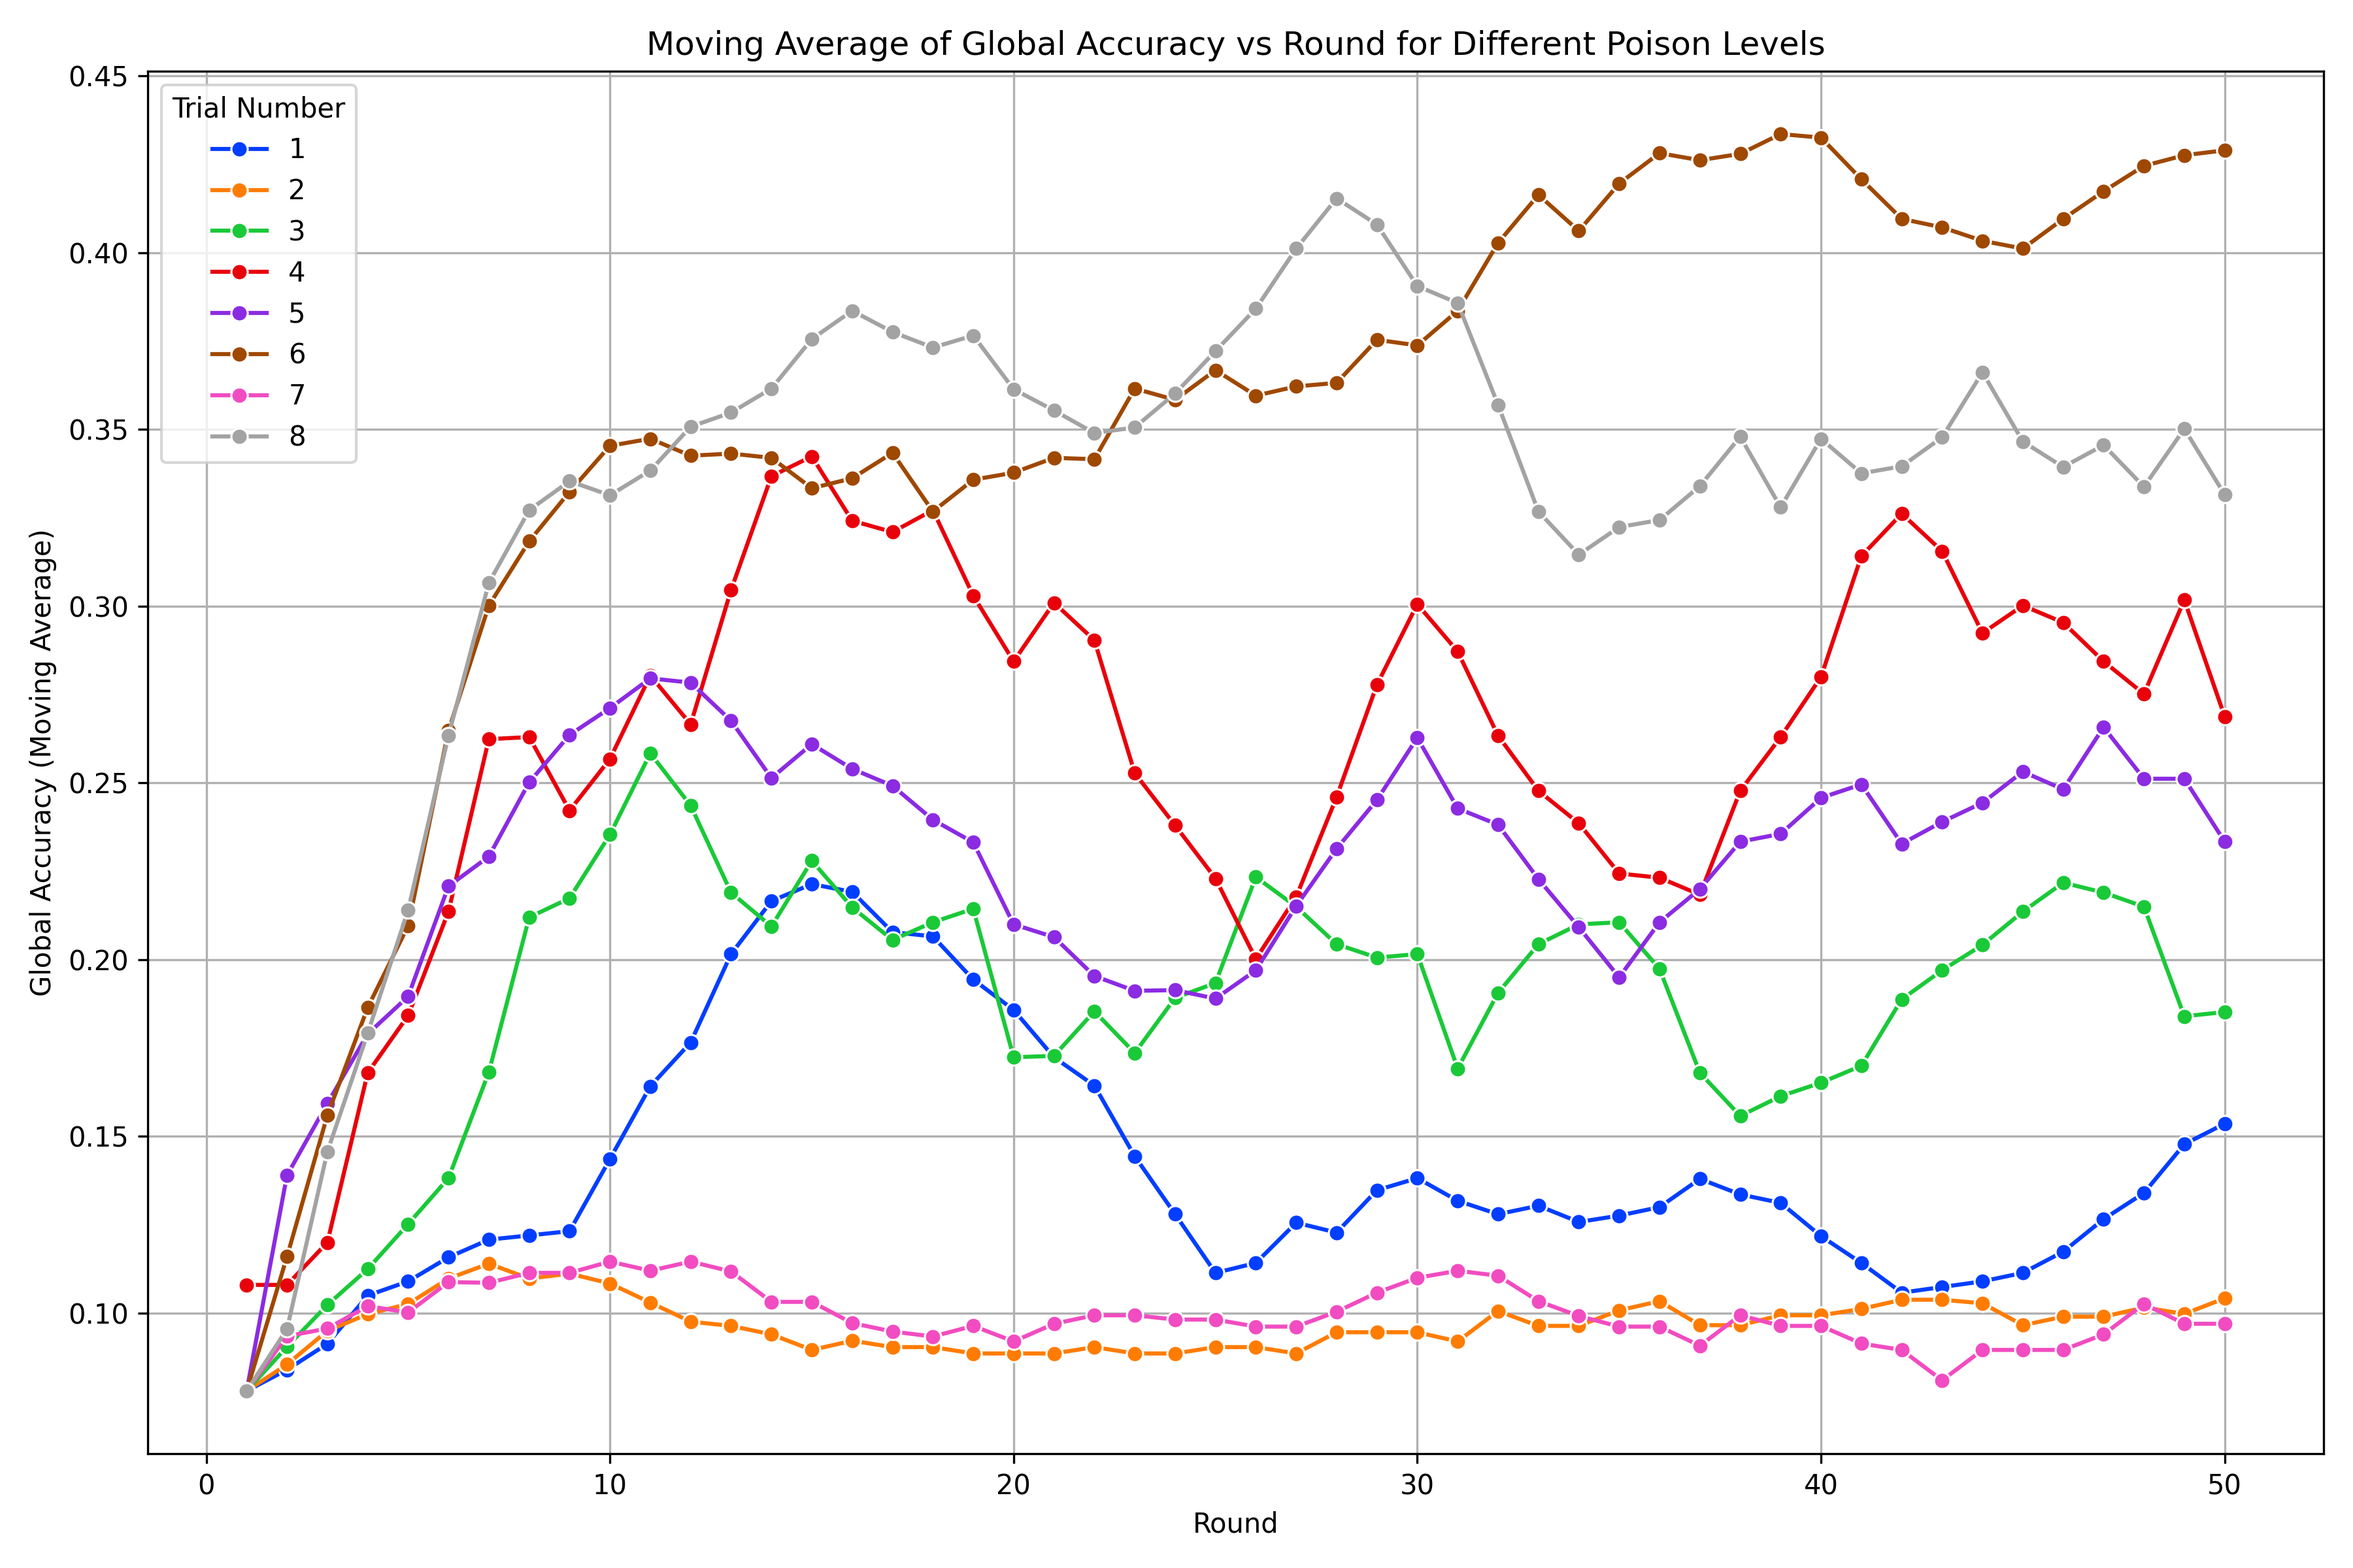
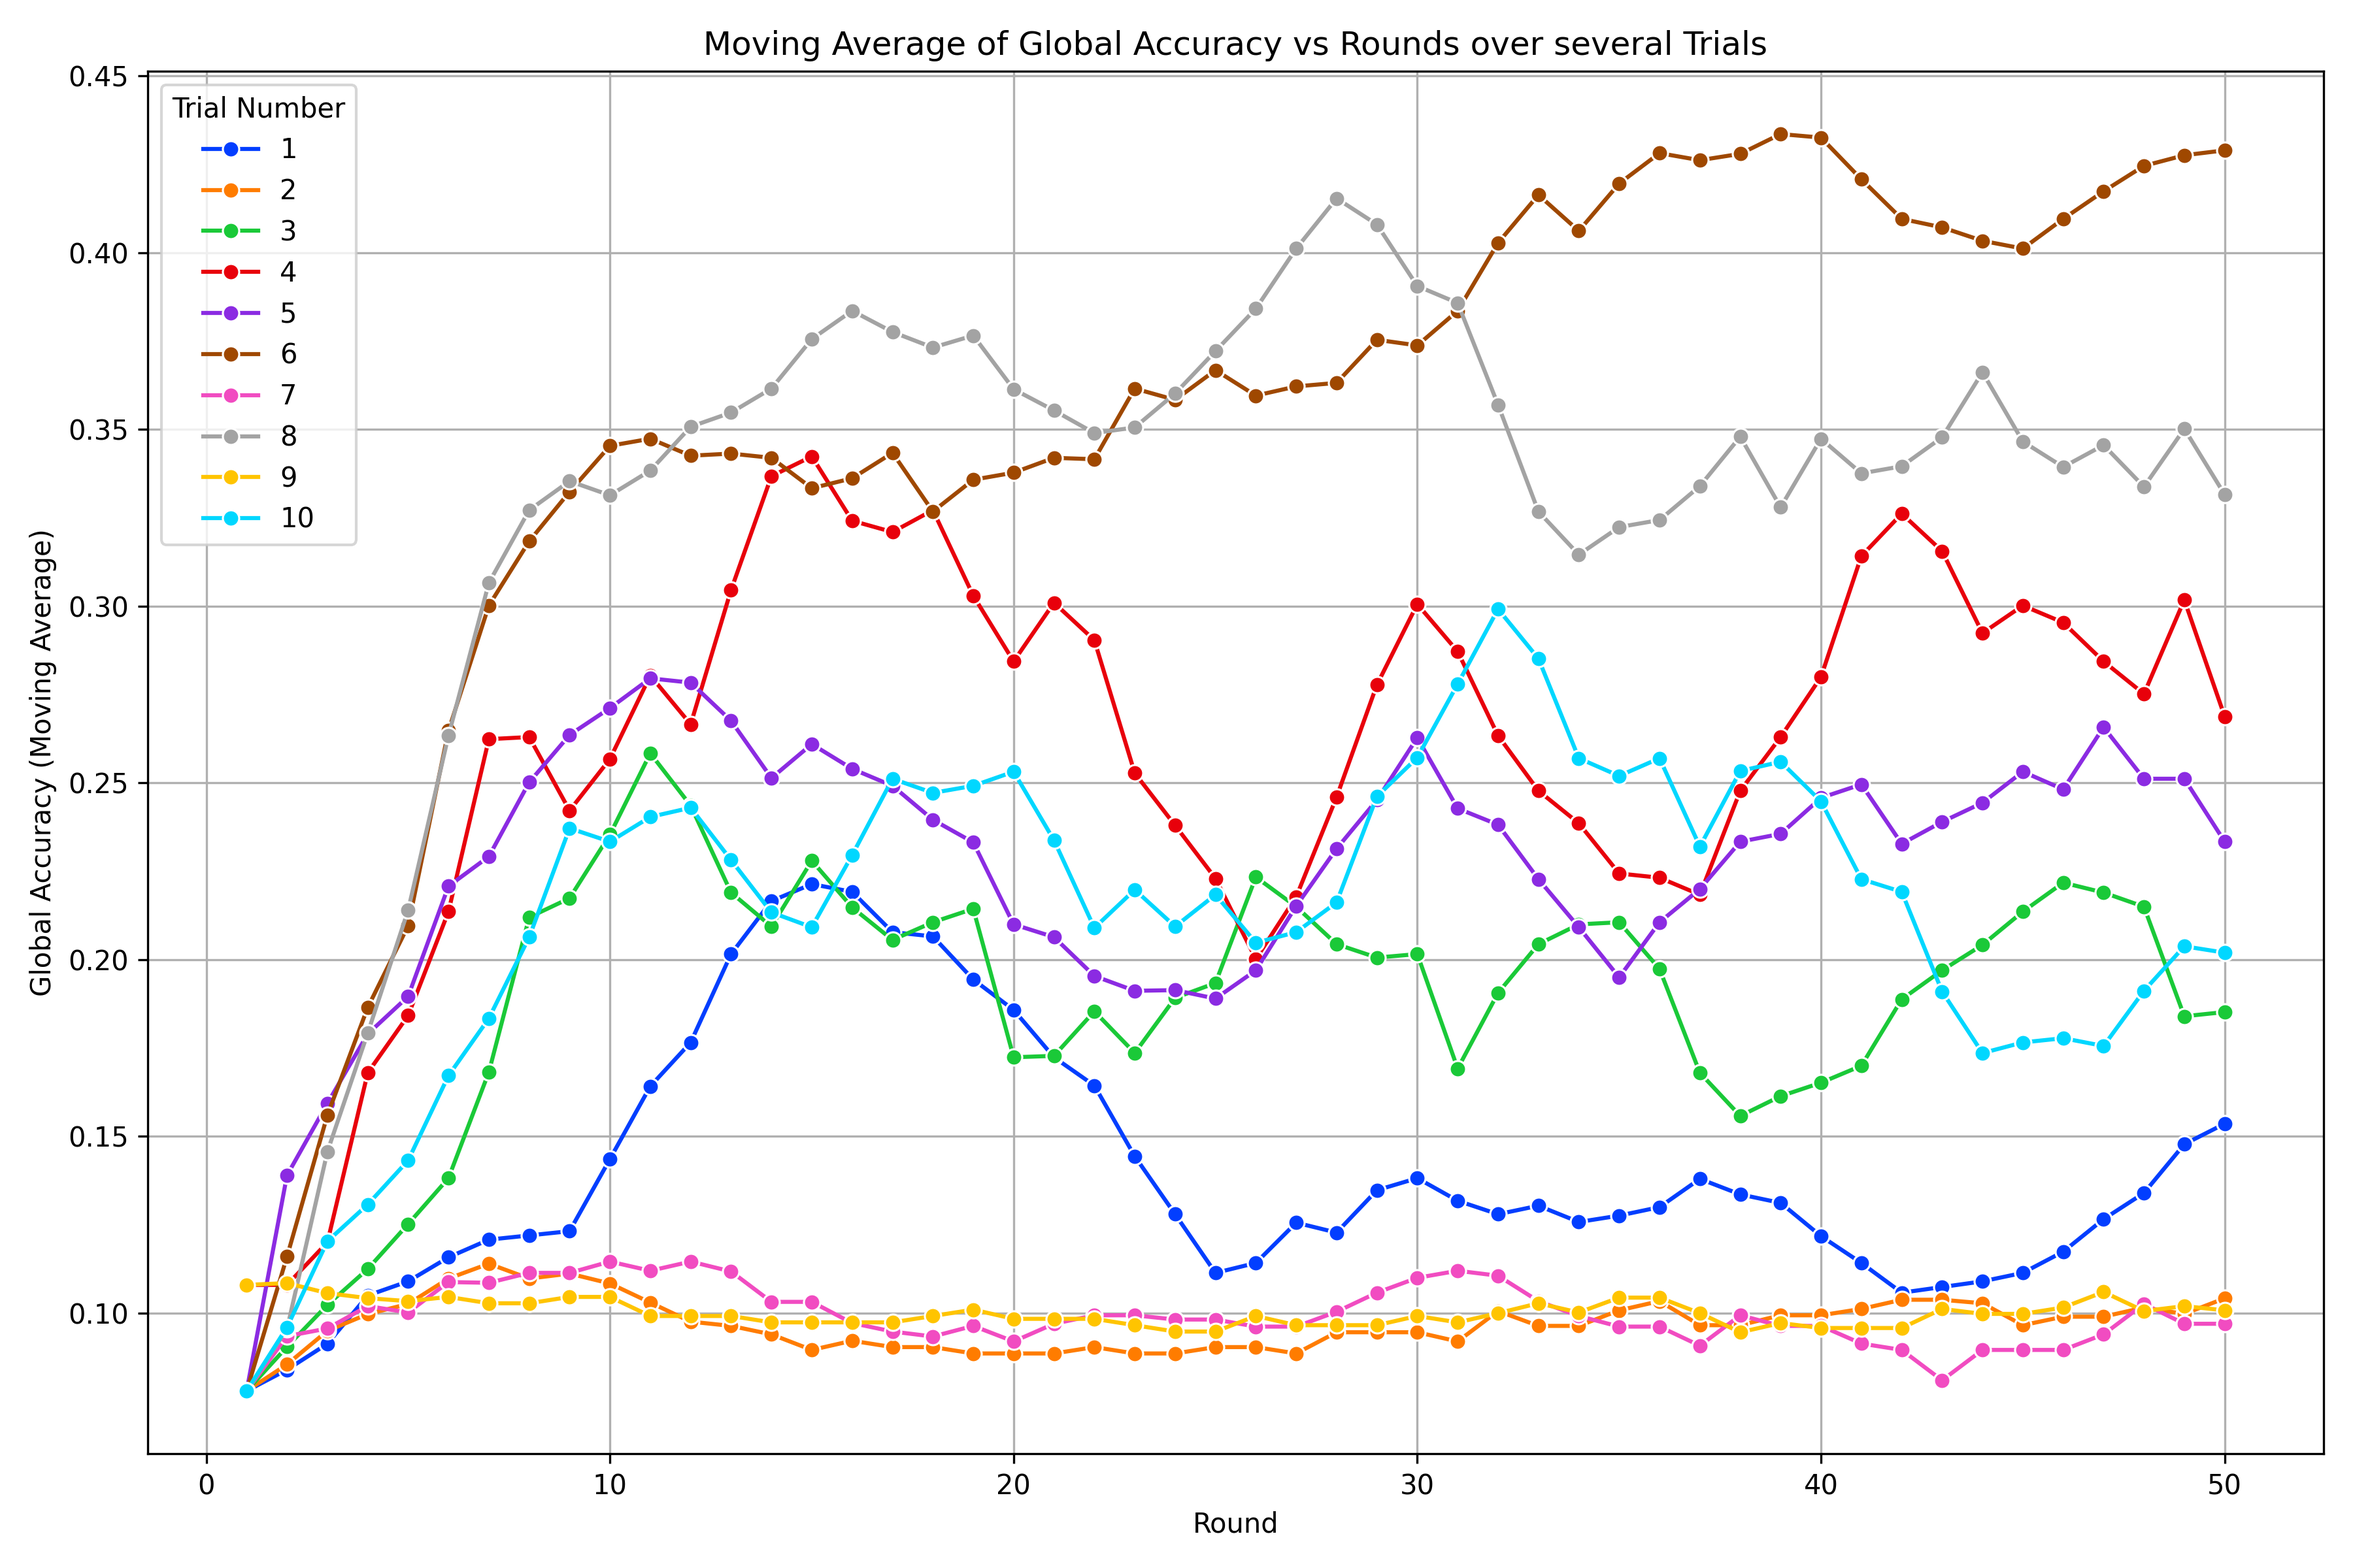
added mean dropout

diff --git a/Federated_Averaging_Manual/plot/plot_mean_data_poison_prob.py b/Federated_Averaging_Manual/plot/plot_mean_data_poison_prob.py
@@ -1,0 +1,51 @@
+import pandas as pd
+import seaborn as sns
+import matplotlib.pyplot as plt
+import os
+
+# List of uploaded CSV files and their corresponding poison levels
+file_paths = [
+    "../results/mean_data_poison/mean_data_poison_0_cx3.csv",
+    "../results/mean_data_poison/mean_data_poison_0_cx3.csv",
+    "../results/mean_data_poison/mean_data_poison_1_cx3.csv",
+    "../results/mean_data_poison/mean_data_poison_2_cx3.csv",
+    "../results/mean_data_poison/mean_data_poison_3_cx3.csv",
+    "../results/mean_data_poison/mean_data_poison_4_cx3.csv",
+    "../results/mean_data_poison/mean_data_poison_5_cx3.csv",
+    "../results/mean_data_poison/mean_data_poison_6_cx3.csv",
+    "../results/mean_data_poison/mean_data_poison_7_cx3.csv",
+    "../results/mean_data_poison/mean_data_poison_8_cx3.csv",
+    "../results/mean_data_poison/mean_data_poison_9_cx3.csv"
+]
+
+# Combine all data into a single DataFrame with moving averages
+all_data = []
+
+for path in file_paths:
+    df = pd.read_csv(path)
+    run = int(os.path.basename(path).split('_')[3]) + 1
+    df['Trial Number'] = run
+    # Calculate moving average (e.g., window size = 5)
+    df['Global Accuracy'] = df['Global Accuracy'].rolling(window=5, min_periods=1).mean()
+    all_data.append(df)
+
+combined_df = pd.concat(all_data, ignore_index=True)
+
+# Create the seaborn line plot
+plt.figure(figsize=(12, 8))
+
+sns.lineplot(
+    data=combined_df,
+    x='Round', 
+    y='Global Accuracy', 
+    hue='Trial Number', 
+    palette='bright',
+    marker='o'
+)
+
+plt.title('Moving Average of Global Accuracy vs Round over several Trials')
+plt.xlabel('Round')
+plt.ylabel('Global Accuracy (Moving Average)')
+plt.grid(True)
+plt.tight_layout()
+plt.savefig("../figures/mean_data_poison_combined.png", dpi=300)

diff --git a/Federated_Averaging_Manual/fed_avg_data_and_model_poison.py b/Federated_Averaging_Manual/fed_avg_data_and_model_poison.py
@@ -26,10 +26,9 @@ def federated_avg(weights_list, aggregation_type, poison_probabilities):
         return avg_weights
     
     elif aggregation_type == "weighted_mean":
-        
         probability_weights = [1 - p for p in poison_probabilities]
         total_weight = sum(probability_weights)
-        
+
         avg_weights = copy.deepcopy(weights_list[0])
 
         for key in avg_weights.keys():
@@ -37,6 +36,25 @@ def federated_avg(weights_list, aggregation_type, poison_probabilities):
             for i in range(len(weights_list)):
                 avg_weights[key] += weights_list[i][key] * (probability_weights[i])
             avg_weights[key] = avg_weights[key] / total_weight
+        return avg_weights
+    
+    elif aggregation_type == "dropout_mean":
+        avg_weights = copy.deepcopy(weights_list[0])
+        valid_weights = [weights_list[i] for i in range(len(weights_list)) if poison_probabilities[i] <= 0.5]
+
+        print(f"Initial Weights: {len(weights_list)}")
+        print(f"Valid Weights: {len(valid_weights)}")
+        
+        if not valid_weights:
+            raise ValueError("No valid clients with probability <= 0.5 for aggregation.")
+        
+        for key in avg_weights.keys():
+            avg_weights[key] = torch.zeros_like(avg_weights[key])
+            for weights in valid_weights:
+                avg_weights[key] += weights[key]
+                
+            avg_weights[key] = avg_weights[key] / len(valid_weights)
+        
         return avg_weights
     
     elif aggregation_type == "median":

diff --git a/Federated_Averaging_Manual/plot/plot_weighted_mean_data_poison.py b/Federated_Averaging_Manual/plot/plot_weighted_mean_data_poison.py
@@ -12,7 +12,9 @@ file_paths = [
     "../results/weighted_mean_data_poison/weighted_mean_data_poison_4_cx3.csv",
     "../results/weighted_mean_data_poison/weighted_mean_data_poison_5_cx3.csv",
     "../results/weighted_mean_data_poison/weighted_mean_data_poison_6_cx3.csv",
-    "../results/weighted_mean_data_poison/weighted_mean_data_poison_7_cx3.csv"
+    "../results/weighted_mean_data_poison/weighted_mean_data_poison_7_cx3.csv",
+    "../results/weighted_mean_data_poison/weighted_mean_data_poison_8_cx3.csv",
+    "../results/weighted_mean_data_poison/weighted_mean_data_poison_9_cx3.csv"
 ]
 
 # Combine all data into a single DataFrame with moving averages
@@ -40,7 +42,7 @@ sns.lineplot(
     marker='o'
 )
 
-plt.title('Moving Average of Global Accuracy vs Round for Different Poison Levels')
+plt.title('Moving Average of Global Accuracy vs Rounds over several Trials')
 plt.xlabel('Round')
 plt.ylabel('Global Accuracy (Moving Average)')
 plt.grid(True)
